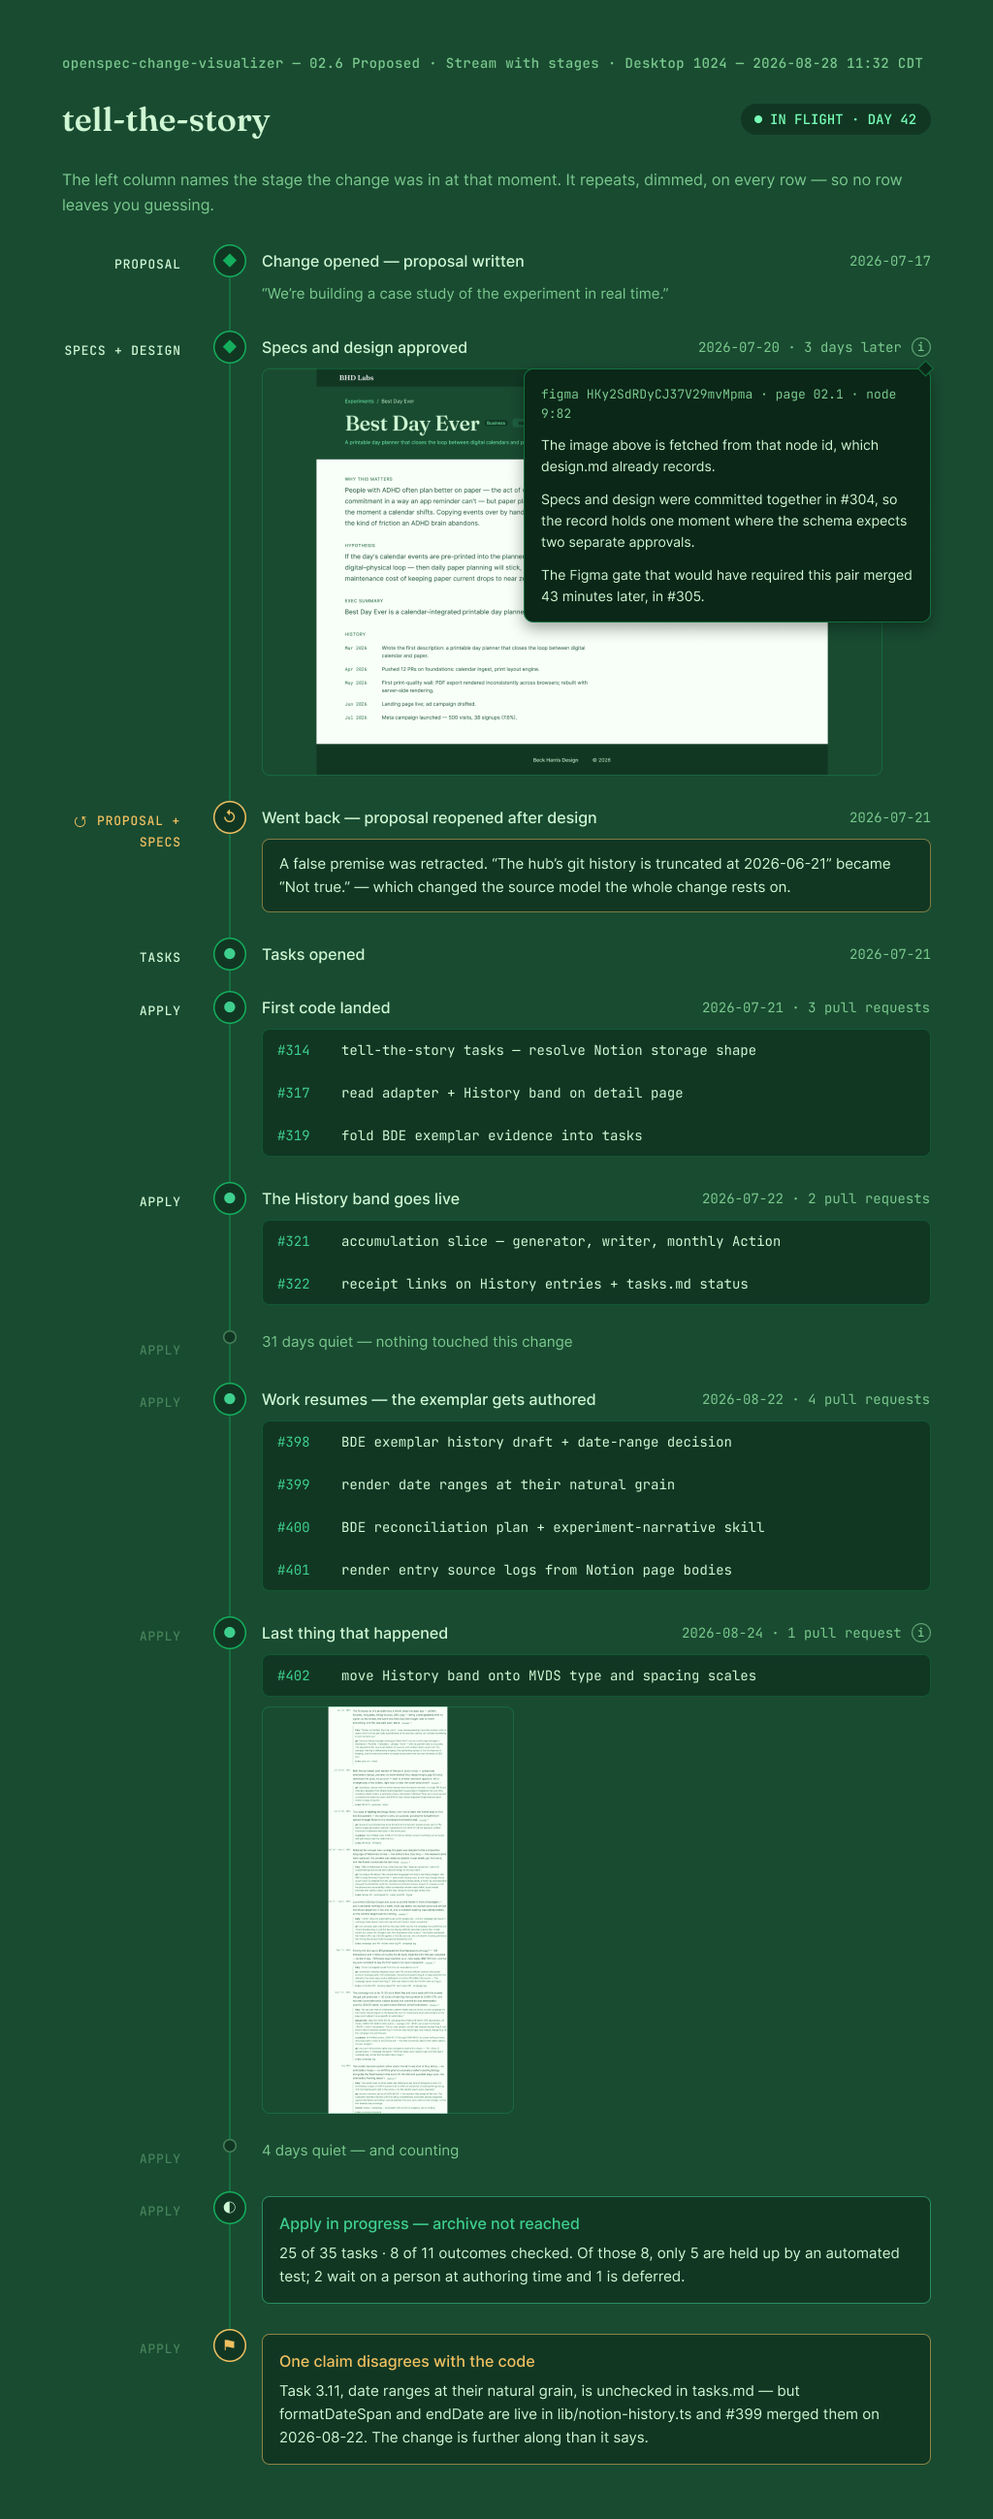
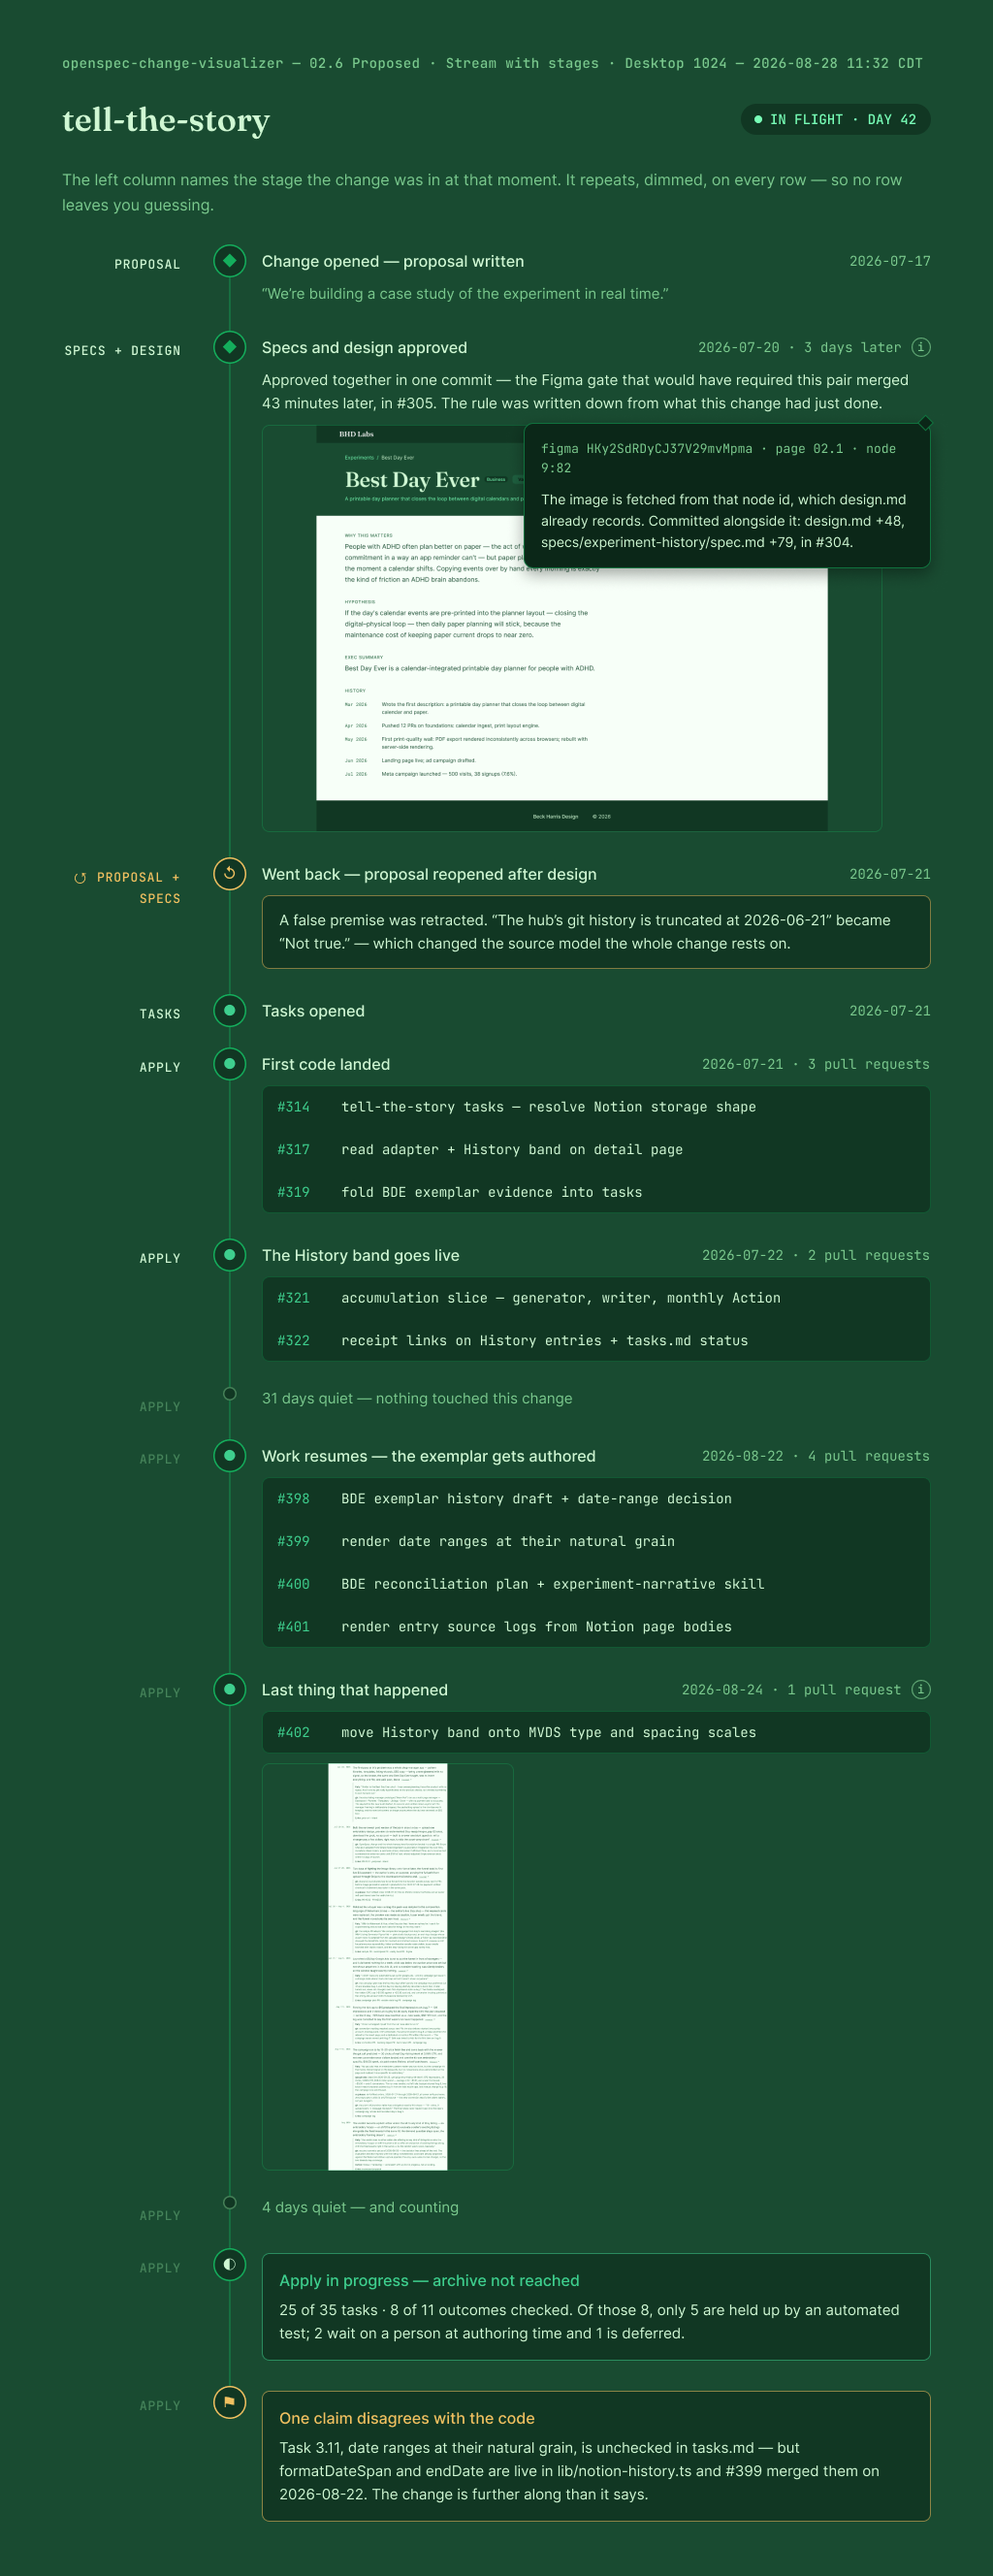
docs(openspec-change-visualizer): keep findings on the row, hide only provenance
The first tooltip pass swept a finding in with the plumbing — that the Figma
gate merged 43 minutes after the design it would have governed. That is the
most interesting thing on the row, and hiding it made the row poorer.

Rule recorded: provenance hides, findings do not. The info icon holds how we
know — node ids, file paths, commit stats. The row keeps what we learned.

diff --git a/experiments/openspec-change-visualizer/docs/intent.md b/experiments/openspec-change-visualizer/docs/intent.md
@@ -329,7 +329,18 @@ opening tasks). No row leaves you guessing, and the repeats cost nothing to skip
 - **Meta right-aligns.** Dates, PR counts and the info icon were sitting directly
   beside each row title and competing with it. They now sit at the right edge, so
   the titles form a clean left column to scan.
-- **Verification notes hide behind an icon.** Node ids, file paths, and "how do we
-  know this" belong one interaction away, not in the reading line. Each row that
-  has provenance carries an `ⓘ`; `02.6` renders one open so the pattern is visible
-  rather than described.
+- **Verification notes hide behind an icon.** Each row with provenance carries an
+  `ⓘ`; `02.6` renders one open so the pattern is visible rather than described.
+
+**What hides and what does not.** The first pass at the tooltip swept a finding
+into it along with the plumbing — that the Figma gate merged 43 minutes after the
+design it would have governed. That is the most interesting thing on the row, and
+putting it one interaction away made the row poorer.
+
+> **Provenance hides. Findings do not.**
+
+`ⓘ` holds *how we know* — node ids, file paths, commit stat lines, which query
+produced the number. The row keeps *what we learned* — that two gates shared one
+commit, that the rule arrived after the change that inspired it, that a claim and
+the code disagree. A card whose findings are all behind icons reads as empty, and
+answers "what's going on?" with a shrug.
